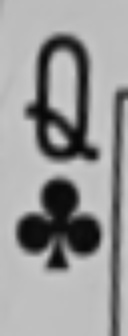
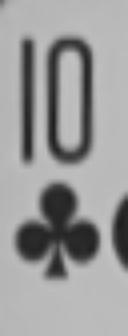
Added new images and resolved bug with referenced before assignment variables

diff --git a/src/containers/load.js b/src/containers/load.js
@@ -58,7 +58,7 @@ const LoadContainer = () => {
 
   function onRandomButtonClickChange() {
     setLoading(true);
-    let index = Math.ceil(Math.random() * 15);
+    let index = Math.ceil(Math.random() * 45);
     setImage(`${process.env.PUBLIC_URL}/examples/example${index}.jpg`);
     setTimeout(() => {
       setLoading(false);

diff --git a/flask/CardRecognition.py b/flask/CardRecognition.py
@@ -30,6 +30,14 @@ def isInSystem(rank, color, combination):
 # Funkcja zwracajaca informacje o przerobionym obrazie wejściowym
 def drawImage(img):
     size = (IM_WIDTH, IM_HEIGHT)
+    example_card = []
+    zoom = []
+    value = []
+    symbol = []
+    image = [] 
+    grayed = [] 
+    blurred = []
+    pre_process = [] 
 
     image = cv2.resize(img, size, interpolation = cv2.INTER_AREA)
     
@@ -52,7 +60,16 @@ def drawImage(img):
             if (contour_is_card[i] == 1):
 
                 # Dodanie nowej karty ze znalezionego konturu
-                card, example_card, zoom, value, symbol = Cards.preprocess_card(contours_sort[i], image, blurred)
+                card, example_card, zoom, value, symbol, valid = Cards.preprocess_card(contours_sort[i], image, blurred)
+
+                if(not valid or example_card == []):
+                    img2 = copy.copy(img)
+                    cv2.putText(img, "Oryginalny obraz", (5, IM_HEIGHT//2 - 170), font, 6.2, (0, 0, 0), 8, cv2.LINE_AA)
+                    cv2.putText(img, "Oryginalny obraz", (5, IM_HEIGHT//2 - 170), font, 6.2, (255, 255, 255), 5, cv2.LINE_AA)
+                    cv2.putText(img2, "Nie odczytano poprawnie zdjecia", (5, IM_HEIGHT//2 - 170), font, 6.2, (0, 0, 0), 8, cv2.LINE_AA)
+                    cv2.putText(img2, "Nie odczytano poprawnie zdjecia", (5, IM_HEIGHT//2 - 170), font, 6.2, (255, 255, 255), 5, cv2.LINE_AA)
+                    return 0, 0, 0, 0, 0, 0, 0, 0, img, img2, False
+
                 cards.append(card)
 
                 # Znalezienie najlepszej rangi i koloru dla nowo znalezionej karty
@@ -97,13 +114,28 @@ def drawImage(img):
         cv2.putText(img2, "Nie znaleziono konturow kart", (5, IM_HEIGHT//2 - 170), font, 6.2, (0, 0, 0), 5, cv2.LINE_AA)
         return 0, 0, 0, 0, 0, 0, 0, 0, img, img2, False
 
-    cv2.putText(grayed, "Wyszarzenie obrazu", (5, IM_HEIGHT//2 - 305), font, 1.95, (0, 0, 0), 3, cv2.LINE_AA)
-    cv2.putText(grayed,"Wyszarzenie obrazu", (5, IM_HEIGHT//2 - 305), font, 1.95, (255, 255, 255), 2, cv2.LINE_AA)
-    cv2.putText(blurred, "Rozmazanie obrazu", (5, IM_HEIGHT//2 - 305), font, 1.95, (0, 0, 0), 3, cv2.LINE_AA)
-    cv2.putText(blurred,"Rozmazanie obrazu", (5, IM_HEIGHT//2 - 305), font, 1.95, (255, 255, 255), 2, cv2.LINE_AA)
-    cv2.putText(pre_process, "Progowanie obrazu", (5, IM_HEIGHT//2 - 305), font, 1.95, (0, 0, 0), 3, cv2.LINE_AA)
-    cv2.putText(pre_process,"Progowanie obrazu", (5, IM_HEIGHT//2 - 305), font, 1.95, (255, 255, 255), 2, cv2.LINE_AA)
-    cv2.putText(img, "Oryginalny obraz", (5, IM_HEIGHT//2 - 170), font, 6.2, (0, 0, 0), 7, cv2.LINE_AA)
-    cv2.putText(img, "Oryginalny obraz", (5, IM_HEIGHT//2 - 170), font, 6.2, (255, 255, 255), 5, cv2.LINE_AA)
+    if(example_card == [] or
+    zoom == [] or
+    value == [] or
+    symbol == [] or
+    image == [] or
+    grayed == [] or
+    blurred == [] or
+    pre_process == [] ):
+        img2 = copy.copy(img)
+        cv2.putText(img, "Oryginalny obraz", (5, IM_HEIGHT//2 - 170), font, 6.2, (255, 255, 255), 8, cv2.LINE_AA)
+        cv2.putText(img, "Oryginalny obraz", (5, IM_HEIGHT//2 - 170), font, 6.2, (0, 0, 0), 5, cv2.LINE_AA)
+        cv2.putText(img2, "Nie znaleziono konturow kart", (5, IM_HEIGHT//2 - 170), font, 6.2, (255, 255, 255), 8, cv2.LINE_AA)
+        cv2.putText(img2, "Nie znaleziono konturow kart", (5, IM_HEIGHT//2 - 170), font, 6.2, (0, 0, 0), 5, cv2.LINE_AA)
+        return 0, 0, 0, 0, 0, 0, 0, 0, img, img2, False
+    else:
+        cv2.putText(grayed, "Wyszarzenie obrazu", (5, IM_HEIGHT//2 - 305), font, 1.95, (0, 0, 0), 3, cv2.LINE_AA)
+        cv2.putText(grayed,"Wyszarzenie obrazu", (5, IM_HEIGHT//2 - 305), font, 1.95, (255, 255, 255), 2, cv2.LINE_AA)
+        cv2.putText(blurred, "Rozmazanie obrazu", (5, IM_HEIGHT//2 - 305), font, 1.95, (0, 0, 0), 3, cv2.LINE_AA)
+        cv2.putText(blurred,"Rozmazanie obrazu", (5, IM_HEIGHT//2 - 305), font, 1.95, (255, 255, 255), 2, cv2.LINE_AA)
+        cv2.putText(pre_process, "Progowanie obrazu", (5, IM_HEIGHT//2 - 305), font, 1.95, (0, 0, 0), 3, cv2.LINE_AA)
+        cv2.putText(pre_process,"Progowanie obrazu", (5, IM_HEIGHT//2 - 305), font, 1.95, (255, 255, 255), 2, cv2.LINE_AA)
+        cv2.putText(img, "Oryginalny obraz", (5, IM_HEIGHT//2 - 170), font, 6.2, (0, 0, 0), 7, cv2.LINE_AA)
+        cv2.putText(img, "Oryginalny obraz", (5, IM_HEIGHT//2 - 170), font, 6.2, (255, 255, 255), 5, cv2.LINE_AA)
 
-    return grayed, blurred, pre_process, image, example_card, zoom, value, symbol, img, img, True
+        return grayed, blurred, pre_process, image, example_card, zoom, value, symbol, img, img, True

diff --git a/flask/Cards.py b/flask/Cards.py
@@ -167,6 +167,7 @@ def preprocess_card(contour, image, blurred):
     # Znalezienie wysokości i szerokości karty
     x, y, w, h = cv2.boundingRect(contour)
     qCard.width, qCard.height = w, h
+    new_card = []
     new_card = blurred[y:y + h, x:x + w]
 
     # Znalezienie punktu środkowego karty poprzez znalezienie średniej po współrzędnych punktów w rogach
@@ -196,6 +197,7 @@ def preprocess_card(contour, image, blurred):
     Qrank_cnts = sorted(Qrank_cnts, key=cv2.contourArea, reverse=True)
 
     # Znalezienie prostokąta ograniczającego dla największego konturu, dopasowanie do wymiarów rang z folderu Image 
+    Qrank_roi = []
     if len(Qrank_cnts) != 0:
         x1, y1, w1, h1 = cv2.boundingRect(Qrank_cnts[0])
         Qrank_roi = Qrank[y1:y1 + h1, x1:x1 + w1]
@@ -207,13 +209,17 @@ def preprocess_card(contour, image, blurred):
     Qcolor_cnts = sorted(Qcolor_cnts, key=cv2.contourArea, reverse=True)
 
     # Znalezienie prostokąta ograniczającego dla największego konturu, dopasowanie do wymiarów rang z folderu Image 
+    Qcolor_roi = []
     if len(Qcolor_cnts) != 0:
         x2, y2, w2, h2 = cv2.boundingRect(Qcolor_cnts[0])
         Qcolor_roi = Qcolor[y2:y2 + h2, x2:x2 + w2]
         Qcolor_sized = cv2.resize(Qcolor_roi, (COLORS_WIDTH, COLORS_HEIGHT), 0, 0)
         qCard.color_img = Qcolor_sized
 
-    return qCard, new_card, Qcorner_zoom, Qrank_roi, Qcolor_roi
+    valid = True
+    if(Qrank_roi == [] or Qcolor_roi == [] or new_card == []):
+        valid = False
+    return qCard, new_card, Qcorner_zoom, Qrank_roi, Qcolor_roi, valid
 
 # Znalezienie najlepszej rangi i koloru dla karty z kolejki.
 def match_card(qCard, train_ranks, train_colors):
